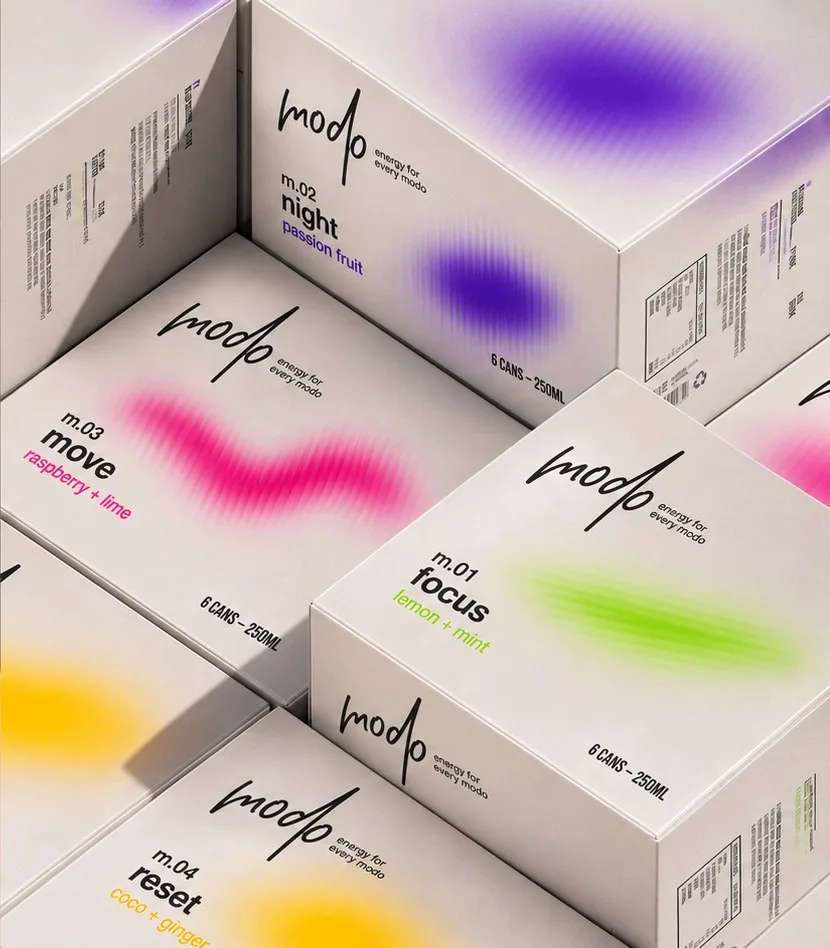
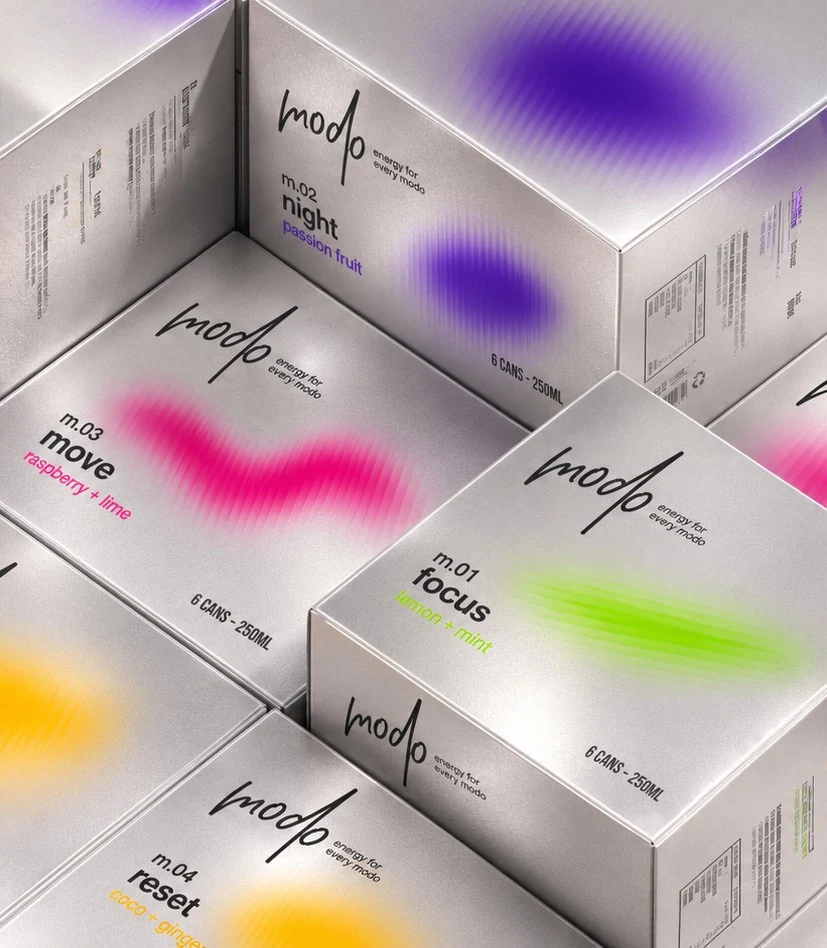
Latas nuevas, merch nuevo y fondo de color en cada modo
Claude-Session: https://claude.ai/code/session_01Qkm5hbxziLkWkGpDi47SDj

diff --git a/index.html b/index.html
@@ -68,6 +68,28 @@ main{overflow-x:clip}
 .prod{border-radius:24px;background:var(--soft);padding:22px;display:flex;flex-direction:column}
 .prod .pic{height:300px;display:flex;align-items:center;justify-content:center;position:relative;overflow:hidden;border-radius:16px}
 .prod .pic .sym{position:absolute;width:100%;opacity:.7}
+/* modo band */
+.mband{position:relative;overflow:hidden;background:var(--mc,#9be21f);color:var(--mi,#111);transition:background .4s,color .4s}
+.mband a{color:inherit}
+.mmark{position:absolute;right:-120px;bottom:-160px;width:980px;max-width:none;opacity:.1;pointer-events:none}
+.mrow{display:flex;flex-wrap:wrap;align-items:center;gap:24px;min-height:600px;margin-top:12px}
+.mnum{margin:0;font-size:34px;font-weight:800;letter-spacing:-.02em;opacity:.55;display:flex;align-items:center;gap:10px}
+.mdot{display:inline-block;width:11px;height:11px;border-radius:50%;background:currentColor}
+.mname{margin:0;font-size:clamp(96px,11vw,176px);line-height:.85;font-weight:900;letter-spacing:-.06em}
+.mflavor{margin:4px 0 0;font-size:clamp(44px,4.6vw,72px);line-height:.9;font-weight:900;letter-spacing:-.045em}
+.mstage{flex:1 1 380px;position:relative;height:580px;min-width:0}
+.mshadow{position:absolute;left:50%;bottom:70px;height:470px;transform:translateX(-38%) skewX(-34deg);transform-origin:50% 100%;filter:brightness(0) blur(10px);opacity:.26;pointer-events:none}
+.mfloor{position:absolute;left:50%;bottom:58px;width:230px;height:30px;transform:translateX(-46%);border-radius:50%;background:rgba(0,0,0,.32);filter:blur(12px)}
+.mcan{position:absolute;left:50%;bottom:66px;height:480px;transform:translateX(-50%)}
+.marrows{position:absolute;left:50%;bottom:0;transform:translateX(-50%);display:flex;gap:10px}
+.mround{width:44px;height:44px;border-radius:22px;border:2px solid currentColor;background:transparent;color:inherit;cursor:pointer;display:flex;align-items:center;justify-content:center}
+.madd{height:52px;padding:0 26px;border-radius:26px;border:none;background:var(--mi,#111);color:var(--mc,#9be21f);font-weight:800;font-size:16px;cursor:pointer}
+.mqty{height:52px;border-radius:26px;border:2px solid currentColor;display:flex;align-items:center}
+.mqty button{width:44px;height:44px;border:none;background:transparent;font-size:20px;font-weight:700;cursor:pointer}
+.mqty span{min-width:22px;text-align:center;font-size:17px;font-weight:800}
+.mband .tabs button{border-color:color-mix(in srgb,currentColor 35%,transparent)}
+.mband .tabs button.on{background:var(--mi,#111);color:var(--mc,#9be21f);border-color:var(--mi,#111)}
+@media (max-width:900px){.mstage{height:460px}.mcan{height:360px}.mshadow{height:350px}.mrow{min-height:0}}
 footer{background:#000;color:#fff;padding:72px 0 36px;margin-top:40px}
 footer a{color:#fff}
 .toast{position:fixed;left:50%;bottom:28px;transform:translateX(-50%) translateY(120px);background:#111;color:#fff;padding:14px 22px;border-radius:24px;font-weight:600;transition:transform .3s;z-index:50}
@@ -159,36 +181,56 @@ footer a{color:#fff}
       <img src="img/p_friends.webp" alt="amigos tomando latas modo" style="width:100%;aspect-ratio:4/5;object-fit:cover;border-radius:18px">
       <img src="img/p_fridge.webp" alt="heladera llena de latas modo" style="width:100%;aspect-ratio:4/5;object-fit:cover;border-radius:18px">
       <img src="img/p_pocket.webp" alt="latas modo en un bolsillo" style="width:100%;aspect-ratio:4/5;object-fit:cover;object-position:65% 50%;border-radius:18px">
-      <img src="img/tote.webp" alt="bolsa de tela modo" style="width:100%;aspect-ratio:4/5;object-fit:cover;border-radius:18px">
+      <img src="img/tote.webp" alt="tote bag plateada modo" style="width:100%;aspect-ratio:4/5;object-fit:cover;border-radius:18px">
     </div>
   </div>
 </section>
 
 <!-- MODOS -->
 <section class="page" id="p-modos">
-  <div class="wrap" style="padding-top:32px">
-    <p style="margin:0;font-size:14px;color:#555"><a href="#inicio">inicio</a> / modos / <span id="m-crumb"></span></p>
-    <div class="tabs" id="tabs"></div>
-  </div>
-  <div class="wrap" style="display:flex;flex-wrap:wrap;gap:48px;align-items:center;padding-top:40px;padding-bottom:60px">
-    <div style="flex:1 1 420px;position:relative;height:620px;display:flex;align-items:center;justify-content:center">
-      <img class="halo" id="m-sym" src="" alt="" style="position:absolute;width:130%;max-width:760px;opacity:.9">
-      <img id="m-can" src="" alt="" style="position:relative;height:560px;max-height:100%;filter:drop-shadow(0 34px 30px rgba(0,0,0,.2))">
+  <div class="mband" id="m-band">
+    <img class="mmark" id="m-mark" src="img/logo.webp" alt="">
+    <div class="wrap" style="position:relative;padding-top:28px;padding-bottom:36px">
+      <div style="display:flex;justify-content:space-between;align-items:center;gap:16px;flex-wrap:wrap">
+        <p style="margin:0;font-size:14px;font-weight:600"><a href="#inicio">inicio</a> / modos / <span id="m-crumb"></span></p>
+        <div class="tabs" id="tabs" style="margin-top:0"></div>
+      </div>
+      <div class="mrow">
+        <div style="flex:1 1 300px;min-width:0">
+          <p class="mnum"><span id="m-num"></span><span class="mdot" aria-hidden="true"></span></p>
+          <h1 id="m-name" class="mname"></h1>
+          <p id="m-tags" style="margin:22px 0 0;font-size:20px;font-weight:700;line-height:1.3;white-space:pre-line"></p>
+        </div>
+        <div class="mstage">
+          <img id="m-shadow" class="mshadow" src="" alt="">
+          <div class="mfloor"></div>
+          <img id="m-can" class="mcan" src="" alt="">
+          <div class="marrows">
+            <button class="mround" id="m-prev" aria-label="modo anterior"><svg width="18" height="18" viewBox="0 0 24 24" fill="none" stroke="currentColor" stroke-width="2.4" stroke-linecap="round" stroke-linejoin="round" aria-hidden="true"><path d="M15 5l-7 7 7 7"/></svg></button>
+            <button class="mround" id="m-next" aria-label="modo siguiente"><svg width="18" height="18" viewBox="0 0 24 24" fill="none" stroke="currentColor" stroke-width="2.4" stroke-linecap="round" stroke-linejoin="round" aria-hidden="true"><path d="M9 5l7 7-7 7"/></svg></button>
+          </div>
+        </div>
+        <div style="flex:1 1 280px;min-width:0">
+          <p style="margin:0;font-size:15px;font-weight:700;opacity:.7">sabor</p>
+          <h2 id="m-flavor" class="mflavor"></h2>
+          <div style="display:flex;align-items:center;gap:10px;margin-top:30px;flex-wrap:wrap">
+            <button class="madd" id="m-add">agregar al carrito ›</button>
+            <div class="mqty"><button id="m-dec" aria-label="restar una lata">−</button><span id="m-qty">1</span><button id="m-inc" aria-label="sumar una lata">+</button></div>
+          </div>
+          <p style="margin:14px 0 0;font-size:15px;font-weight:600;opacity:.75">$ 120 · lata 330 ml · también en pack de 6</p>
+        </div>
+      </div>
     </div>
-    <div style="flex:999 1 520px;min-width:0">
-      <p id="m-num" style="margin:0;font-size:15px;font-weight:600;color:#555"></p>
-      <h1 class="h1" id="m-name" style="font-size:clamp(72px,9vw,128px)"></h1>
-      <p id="m-moment" style="margin:10px 0 0;font-size:22px;font-weight:700"></p>
-      <p class="lead" id="m-desc" style="margin:20px 0 0;max-width:560px"></p>
-      <div style="display:grid;grid-template-columns:repeat(3,minmax(0,1fr));gap:10px;margin-top:28px;max-width:620px">
-        <div class="stat"><div>cuándo</div><div id="m-when"></div></div>
-        <div class="stat"><div>cafeína natural</div><div id="m-caf"></div></div>
-        <div class="stat"><div>azúcar</div><div>0 g</div></div>
-      </div>
-      <div style="display:flex;align-items:center;gap:16px;margin-top:30px;flex-wrap:wrap">
-        <button class="btn" data-add>agregar al carrito · $ 120</button>
-        <span style="font-size:14px;color:#555">lata 330 ml · también en pack de 6</span>
-      </div>
+  </div>
+  <div class="wrap" style="display:flex;flex-wrap:wrap;gap:40px;align-items:flex-start;padding-top:64px;padding-bottom:40px">
+    <div style="flex:1 1 420px;min-width:0">
+      <p id="m-moment" style="margin:0;font-size:22px;font-weight:700"></p>
+      <p class="lead" id="m-desc" style="margin:14px 0 0;max-width:560px"></p>
+    </div>
+    <div style="flex:1 1 420px;min-width:0;display:grid;grid-template-columns:repeat(3,minmax(0,1fr));gap:10px">
+      <div class="stat"><div>cuándo</div><div id="m-when"></div></div>
+      <div class="stat"><div>cafeína natural</div><div id="m-caf"></div></div>
+      <div class="stat"><div>azúcar</div><div>0 g</div></div>
     </div>
   </div>
   <div class="wrap" style="display:flex;flex-wrap:wrap;gap:14px;padding-bottom:60px">
@@ -256,11 +298,11 @@ footer a{color:#fff}
   <div class="wrap"><div class="grid3" id="prods"></div></div>
   <div class="wrap" style="padding-top:40px;padding-bottom:80px">
     <div style="border-radius:28px;overflow:hidden;display:flex;flex-wrap:wrap;background:var(--soft)">
-      <div style="flex:1 1 380px;min-height:420px;position:relative"><img src="img/tote.webp" alt="bolsa de tela modo con halo violeta" style="position:absolute;inset:0;width:100%;height:100%;object-fit:cover"></div>
+      <div style="flex:1 1 380px;min-height:420px;position:relative"><img src="img/tote.webp" alt="tote bag plateada modo con halo violeta" style="position:absolute;inset:0;width:100%;height:100%;object-fit:cover"></div>
       <div style="flex:999 1 420px;min-width:0;padding:48px;display:flex;flex-direction:column;justify-content:center">
         <p style="margin:0;font-size:14px;font-weight:700;color:#555">merch</p>
         <h2 class="h2" style="margin-top:6px;font-size:clamp(40px,4.5vw,60px)">tote bag modo.</h2>
-        <p class="lead" style="margin:16px 0 0;font-size:17px;max-width:420px">algodón natural con el halo night. gratis con tu primer pack de 12.</p>
+        <p class="lead" style="margin:16px 0 0;font-size:17px;max-width:420px">plateada, con el halo night y el logo modo. gratis con tu primer pack de 12.</p>
         <button class="btn" data-add style="align-self:flex-start;margin-top:26px">agregar · $ 390</button>
       </div>
     </div>
@@ -293,19 +335,19 @@ footer a{color:#fff}
 
 <script>
 const MODOS={
- focus:{num:'m.01',name:'focus',moment:'estudiar · trabajar · crear',can:'can_focus_cut',sym:'sym_focus',flavor:'lemon + mint',photo:'p_cans',pos:'30% 50%',
+ focus:{color:'#9be21f',ink:'#111',tags:'concentración - trabajo\nestudio - creatividad',num:'m.01',name:'focus',moment:'estudiar · trabajar · crear',can:'can_focus_cut',sym:'sym_focus',flavor:'lemon + mint',photo:'p_cans',pos:'30% 50%',
   desc:'concentración estable, sin picos ni bajón. matcha con l-teanina y melena de león para las horas en que necesitás la cabeza on.',when:'mañana o antes de estudiar',caf:'80 mg · matcha',
   tipT:'bloques de 50 minutos',tipD:'estudiá en bloques con pausas de 10 minutos. tomá focus al empezar el primero, no a la noche.',
   keys:[['matcha + l-teanina','atención sostenida, sin nervios'],['melena de león','memoria y foco'],['citicolina','claridad mental'],['vitaminas b6 y b12','reducen el cansancio']]},
- night:{num:'m.02',name:'night',moment:'salir · bailar · disfrutar',can:'can_night_cut',sym:'sym_night',flavor:'passion fruit',photo:'p_friends',pos:'50% 30%',
+ night:{color:'#5e17eb',ink:'#fff',tags:'música - eventos\nfiesta - vida social',num:'m.02',name:'night',moment:'salir · bailar · disfrutar',can:'can_night_cut',sym:'sym_night',flavor:'passion fruit',photo:'p_friends',pos:'50% 30%',
   desc:'energía suave para que la noche dure lo que tiene que durar. guayusa y ginseng, con electrolitos para mantenerte hidratado.',when:'antes de salir',caf:'100 mg · guayusa',
   tipT:'agua entre medio',tipD:'la noche se disfruta más hidratado. alterná con agua y no mezcles energéticas con alcohol.',
   keys:[['guayusa','energía suave y sin picos'],['ginseng','resistencia'],['electrolitos','hidratación durante la noche'],['vitaminas b','energía']]},
- move:{num:'m.03',name:'move',moment:'entrenar · correr · moverte',can:'can_move_cut',sym:'sym_move',flavor:'raspberry + lime',photo:'p_pocket',pos:'65% 50%',
+ move:{color:'#ff1c59',ink:'#fff',tags:'deporte - actividad\nmovimiento',num:'m.03',name:'move',moment:'entrenar · correr · moverte',can:'can_move_cut',sym:'sym_move',flavor:'raspberry + lime',photo:'p_pocket',pos:'65% 50%',
   desc:'para tomar antes de moverte. guaraná, remolacha y l-citrulina para rendir más y aguantar más.',when:'30 min antes de entrenar',caf:'110 mg · guaraná',
   tipT:'30 minutos antes',tipD:'es el tiempo que tarda la cafeína en hacer efecto. después, estirá y rehidratate.',
   keys:[['guaraná','mejora el rendimiento'],['remolacha','más oxígeno al músculo'],['l-citrulina','flujo sanguíneo'],['beta-alanina','retrasa la fatiga']]},
- reset:{num:'m.04',name:'reset',moment:'el día después',can:'can_reset_cut',sym:'sym_reset',flavor:'coco + ginger',photo:'p_fridge',pos:'50% 40%',
+ reset:{color:'#ffb000',ink:'#111',tags:'recuperación - descanso\nel día después - reboot',num:'m.04',name:'reset',moment:'el día después',can:'can_reset_cut',sym:'sym_reset',flavor:'coco + ginger',photo:'p_fridge',pos:'50% 40%',
   desc:'para volver a ser vos después de una noche larga. yerba mate suave, electrolitos para rehidratar y jengibre para el estómago.',when:'a la mañana siguiente',caf:'50 mg · yerba mate',
   tipT:'sol y desayuno',tipD:'un poco de luz natural, algo de comer y reset. tu cuerpo te lo agradece.',
   keys:[['yerba mate','energía suave'],['agua de coco + electrolitos','rehidratar'],['jengibre','asienta el estómago'],['cardo mariano','cuida el hígado']]}
@@ -352,13 +394,23 @@ paint();
 document.addEventListener('click',e=>{const b=e.target.closest('[data-add]');if(!b)return;cart++;try{localStorage.setItem('modo-cart',cart)}catch(_){}paint();const t=$('#toast');t.classList.add('show');clearTimeout(t._h);t._h=setTimeout(()=>t.classList.remove('show'),1600);});
 document.addEventListener('click',e=>{const b=e.target.closest('[data-modo]');if(b)location.hash='modos/'+b.dataset.modo;});
 // modo detail
-function showModo(id){const m=MODOS[id]||MODOS.focus;
- $('#m-crumb').textContent=m.name;$('#m-sym').src=img(m.sym);$('#m-sym2').src=img(m.sym);$('#m-can').src=img(m.can);$('#m-can').alt='lata '+m.num+' '+m.name;
- $('#m-num').textContent=m.num+' · '+m.flavor;$('#m-name').textContent=m.name;$('#m-moment').textContent=m.moment;$('#m-desc').textContent=m.desc;
+let curModo='focus',qty=1;
+function showModo(id){const m=MODOS[id]||MODOS.focus;curModo=MODOS[id]?id:'focus';qty=1;$('#m-qty').textContent=qty;
+ const band=$('#m-band');band.style.setProperty('--mc',m.color);band.style.setProperty('--mi',m.ink);
+ $('#m-mark').src=img(m.ink==='#fff'?'logo_white':'logo');
+ $('#m-crumb').textContent=m.name;$('#m-sym2').src=img(m.sym);$('#m-can').src=img(m.can);$('#m-shadow').src=img(m.can);$('#m-can').alt='lata '+m.num+' '+m.name;
+ $('#m-num').textContent=m.num;$('#m-name').textContent=m.name;$('#m-tags').textContent=m.tags;$('#m-flavor').textContent=m.flavor;
+ $('#m-moment').textContent=m.moment;$('#m-desc').textContent=m.desc;
  $('#m-when').textContent=m.when;$('#m-caf').textContent=m.caf;$('#m-tipH').textContent='tip '+m.name;$('#m-tipT').textContent=m.tipT;$('#m-tipD').textContent=m.tipD;
  $('#m-photo').src=img(m.photo);$('#m-photo').style.objectPosition=m.pos;$('#m-photo').alt='modo '+m.name;
  $('#m-keys').innerHTML=m.keys.map(k=>`<div class="keyrow"><span style="font-weight:700">${k[0]}</span><span style="color:#444;text-align:right">${k[1]}</span></div>`).join('');
  document.querySelectorAll('#tabs button').forEach(b=>b.classList.toggle('on',b.dataset.modo===id));}
+const IDS=Object.keys(MODOS);
+$('#m-prev').onclick=()=>{location.hash='modos/'+IDS[(IDS.indexOf(curModo)+IDS.length-1)%IDS.length]};
+$('#m-next').onclick=()=>{location.hash='modos/'+IDS[(IDS.indexOf(curModo)+1)%IDS.length]};
+$('#m-inc').onclick=()=>{qty=Math.min(qty+1,24);$('#m-qty').textContent=qty};
+$('#m-dec').onclick=()=>{qty=Math.max(qty-1,1);$('#m-qty').textContent=qty};
+$('#m-add').onclick=()=>{cart+=qty;try{localStorage.setItem('modo-cart',cart)}catch(_){}paint();const t=$('#toast');t.classList.add('show');clearTimeout(t._h);t._h=setTimeout(()=>t.classList.remove('show'),1600);};
 // router
 function route(){const h=(location.hash||'#inicio').slice(1);const [page,sub]=h.split('/');const p=['inicio','modos','ingredientes','tienda'].includes(page)?page:'inicio';
  document.querySelectorAll('.page').forEach(s=>s.classList.toggle('on',s.id==='p-'+p));
